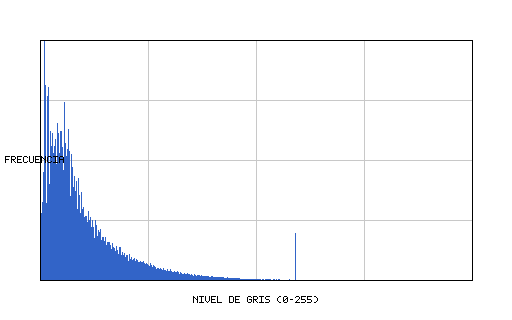
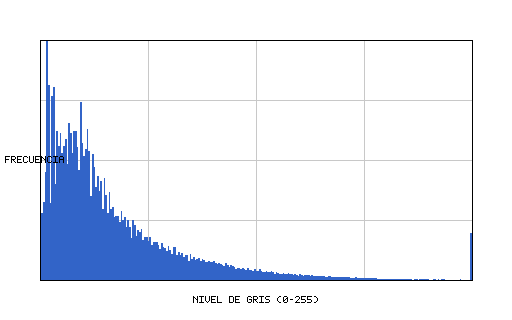
Todo arreglado?

Changed region(s): [[0.0625, 0.125, 0.75, 0.875], [0.9062, 0.75, 0.9375, 0.875]]

diff --git a/MainSystem/Master/histogram.c b/MainSystem/Master/histogram.c
@@ -407,42 +407,44 @@ bool generate_histogram_cvc(const Histogram *hist, const char *filename) {
     
     printf("[MASTER]   Escribiendo barras del histograma...\n");
     
-    // PASO 2: Dibujar barras del histograma
-    int num_bars = HISTOGRAM_BINS;  // 256 barras (una por cada nivel de gris)
-    
-    // Agrupar bins para que quepan en el LCD (240 pixeles de ancho)
-    int bins_per_bar = (num_bars + LCD_WIDTH - 1) / LCD_WIDTH;  // Redondear arriba
-    int actual_bars = (num_bars + bins_per_bar - 1) / bins_per_bar;
-    
-    for (int bar = 0; bar < actual_bars && bar < LCD_WIDTH; bar++) {
-        // Calcular altura promedio de los bins agrupados
-        uint32_t total_freq = 0;
-        int bin_start = bar * bins_per_bar;
-        int bin_end = (bar + 1) * bins_per_bar;
-        if (bin_end > num_bars) bin_end = num_bars;
-        
-        for (int b = bin_start; b < bin_end; b++) {
-            total_freq += hist->bins[b];
-        }
-        
-        uint32_t avg_freq = total_freq / bins_per_bar;
-        
-        // Normalizar altura a LCD_HEIGHT
-        int bar_height = (int)((float)avg_freq / max_freq * (LCD_HEIGHT - 10));
-        if (bar_height > LCD_HEIGHT - 10) bar_height = LCD_HEIGHT - 10;
-        
-        // Calcular color (arcoíris)
-        uint8_t r, g, b;
-        float hue = (360.0 * bar) / actual_bars;
-        hsv_to_rgb(hue, 0.9, 0.9, &r, &g, &b);
-        uint16_t bar_color = rgb_to_rgb565(r, g, b);
-        
-        // Dibujar barra
-        int y_start = LCD_HEIGHT - bar_height;
-        int y_end = LCD_HEIGHT - 1;
-        
-        for (int y = y_start; y <= y_end; y++) {
-            fprintf(fp, "%d\t%d\t%u\n", bar, y, bar_color);
+    // PASO 2: Dibujar barras del histograma mapeando 0–255 a 0–(LCD_WIDTH-1)
+    if (max_freq == 0) {
+        printf("[MASTER]   Histograma vacío, no se dibujan barras\n");
+    } else {
+        for (int x = 0; x < LCD_WIDTH; x++) {
+            // Rango de bins (niveles de gris) que caen en esta columna x
+            int bin_start = (x * HISTOGRAM_BINS) / LCD_WIDTH;
+            int bin_end   = ((x + 1) * HISTOGRAM_BINS) / LCD_WIDTH;
+            if (bin_end <= bin_start) bin_end = bin_start + 1;
+            if (bin_end > HISTOGRAM_BINS) bin_end = HISTOGRAM_BINS;
+
+            uint32_t total_freq = 0;
+            int bins_in_group = 0;
+            for (int b = bin_start; b < bin_end; b++) {
+                total_freq += hist->bins[b];
+                bins_in_group++;
+            }
+
+            uint32_t avg_freq = (bins_in_group > 0) ? (total_freq / bins_in_group) : 0;
+
+            // Normalizar altura a LCD_HEIGHT
+            int bar_height = (int)((float)avg_freq / max_freq * (LCD_HEIGHT - 10));
+            if (bar_height < 0) bar_height = 0;
+            if (bar_height > LCD_HEIGHT - 10) bar_height = LCD_HEIGHT - 10;
+
+            // Color arcoíris según posición x (no según bar)
+            uint8_t r, g, b;
+            float hue = (360.0f * x) / (float)LCD_WIDTH;
+            hsv_to_rgb(hue, 0.9f, 0.9f, &r, &g, &b);
+            uint16_t bar_color = rgb_to_rgb565(r, g, b);
+
+            int y_start = LCD_HEIGHT - bar_height;
+            int y_end   = LCD_HEIGHT - 1;
+
+            for (int y = y_start; y <= y_end; y++) {
+                if (y < 0 || y >= LCD_HEIGHT) continue;
+                fprintf(fp, "%d\t%d\t%u\n", x, y, bar_color);
+            }
         }
     }
     
